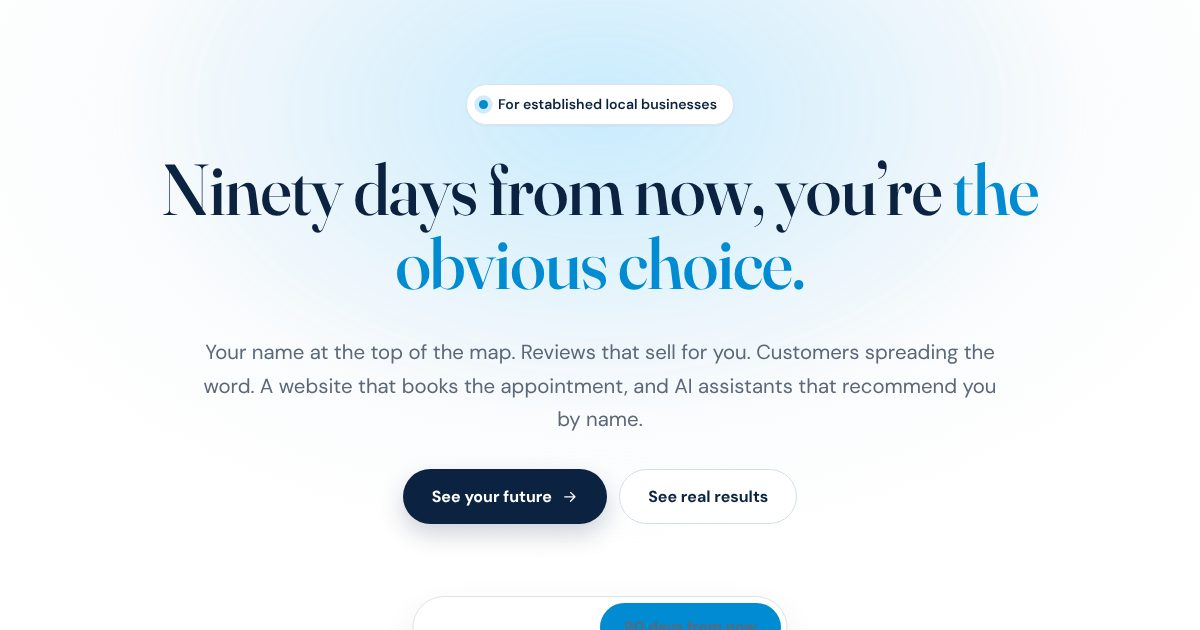
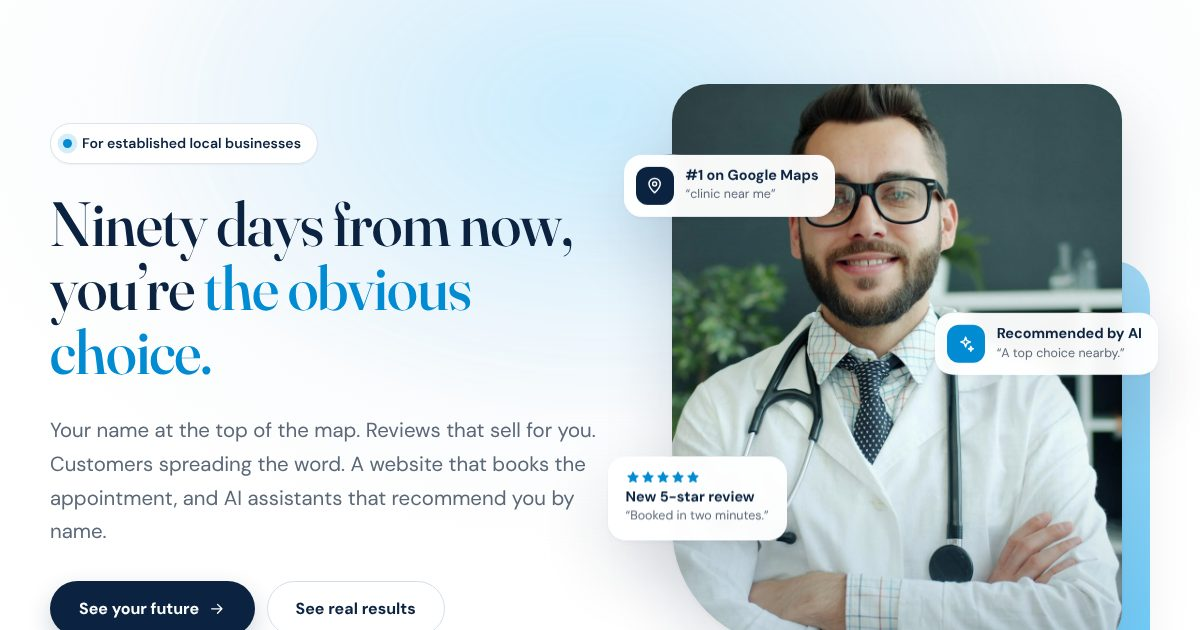
Add a photo to the home hero
Split hero with a portrait of a clinic owner (Unsplash License) and
floating result cards; the Today/90 days switch moves below. The image
can be replaced from the Customizer.

Claude-Session: https://claude.ai/code/session_018pQ9Jxz9pM4me8uzc4osee

diff --git a/wp-content/themes/progressive-marketing/style.css b/wp-content/themes/progressive-marketing/style.css
@@ -211,6 +211,40 @@ p { margin: 0 0 1em; }
 .hero-note .icon { color: var(--green); margin-left: .5em; }
 .hero-note .icon:first-child { margin-left: 0; }
 
+/* Hero with photo */
+.hero-photo-split { position: relative; display: grid; grid-template-columns: 1.08fr .92fr; gap: clamp(32px, 5vw, 72px); align-items: center; }
+.hero-photo-split h1 { font-size: clamp(2.6rem, 5.2vw, 4.4rem); max-width: 11em; }
+.hero-photo-split .lead { max-width: 34em; }
+.hero-photo { position: relative; margin: 0; padding: 0 28px 28px 0; isolation: isolate; }
+.hero-photo-frame { position: relative; border-radius: 36px 36px 36px 120px; overflow: hidden; aspect-ratio: 4 / 5; box-shadow: var(--shadow-lg); background: var(--sky); }
+.hero-photo-frame img { width: 100%; height: 100%; object-fit: cover; object-position: center top; }
+.hero-photo-frame::after { content: ""; position: absolute; inset: 0; background: linear-gradient(180deg, transparent 60%, rgba(11, 35, 65, .18)); }
+.hero-photo::before { content: ""; position: absolute; right: 0; bottom: 0; width: 70%; height: 70%; border-radius: 36px; background: linear-gradient(135deg, var(--sky-2), var(--sky-accent)); z-index: -1; }
+.hero-chip { position: absolute; display: flex; align-items: center; gap: 12px; padding: 12px 16px 12px 12px; border-radius: 18px; background: rgba(255, 255, 255, .96); box-shadow: var(--shadow-lg); backdrop-filter: blur(6px); animation: chipFloat 7s ease-in-out infinite; }
+.hero-chip strong { display: block; font-size: .9rem; color: var(--ink); line-height: 1.2; }
+.hero-chip small { display: block; font-size: .78rem; color: var(--muted); }
+.chip-icon { display: inline-flex; align-items: center; justify-content: center; width: 38px; height: 38px; border-radius: 12px; background: var(--navy); color: #fff; flex: none; }
+.chip-stars { display: inline-flex; gap: 1px; color: var(--blue); }
+.chip-stars .icon { width: 14px; height: 14px; fill: currentColor; }
+.chip-review { flex-direction: column; align-items: flex-start; gap: 4px; padding: 14px 18px; }
+.chip-rank { top: 12%; left: -48px; }
+.chip-review { bottom: 22%; left: -64px; animation-delay: -2.3s; }
+.chip-ai { top: 40%; right: -8px; animation-delay: -4.6s; }
+.chip-ai .chip-icon { background: var(--blue); }
+@keyframes chipFloat { 50% { transform: translateY(-8px); } }
+.hero-photo-split + .container .ft { margin-top: clamp(48px, 6vw, 80px); }
+@media (max-width: 960px) {
+	.hero-photo-split { grid-template-columns: 1fr; }
+	.hero-photo { max-width: 460px; margin: 8px auto 0; }
+	.chip-rank { left: -8px; top: -18px; }
+	.chip-review { left: -12px; }
+	.chip-ai { right: 0; }
+}
+@media (max-width: 480px) {
+	.hero-chip { transform: scale(.9); }
+	.chip-ai { display: none; }
+}
+
 /* Today ↔ Future switch */
 .ft { margin: clamp(48px, 6vw, 72px) auto 0; max-width: 1080px; text-align: left; }
 .ft-switch { position: relative; display: inline-grid; grid-template-columns: 1fr 1fr; margin: 0 auto 22px; padding: 6px; border-radius: 999px; background: #fff; border: 1px solid var(--line); box-shadow: var(--shadow); left: 50%; transform: translateX(-50%); }

diff --git a/wp-content/themes/progressive-marketing/front-page.php b/wp-content/themes/progressive-marketing/front-page.php
@@ -16,14 +16,35 @@ foreach ( pmc_industries() as $ind ) {
 
 <section class="hero">
 	<div class="hero-sun" aria-hidden="true"></div>
-	<div class="container hero-center">
-		<p class="pill" data-reveal><span class="pill-dot"></span> For established local businesses</p>
-		<h1 data-reveal>Ninety days from now, you’re <em>the obvious choice.</em></h1>
-		<p class="lead" data-reveal>Your name at the top of the map. Reviews that sell for you. Customers spreading the word. A website that books the appointment, and AI assistants that recommend you by name.</p>
-		<div class="hero-actions" data-reveal>
-			<a class="btn btn-primary btn-lg" href="<?php echo esc_url( pmc_trial_url() ); ?>">See your future <?php echo pmc_icon( 'arrow' ); // phpcs:ignore ?></a>
-			<a class="btn btn-ghost btn-lg" href="#proof">See real results</a>
+	<div class="container hero-photo-split">
+		<div class="hero-copy">
+			<p class="pill" data-reveal><span class="pill-dot"></span> For established local businesses</p>
+			<h1 data-reveal>Ninety days from now, you’re <em>the obvious choice.</em></h1>
+			<p class="lead" data-reveal>Your name at the top of the map. Reviews that sell for you. Customers spreading the word. A website that books the appointment, and AI assistants that recommend you by name.</p>
+			<div class="hero-actions" data-reveal>
+				<a class="btn btn-primary btn-lg" href="<?php echo esc_url( pmc_trial_url() ); ?>">See your future <?php echo pmc_icon( 'arrow' ); // phpcs:ignore ?></a>
+				<a class="btn btn-ghost btn-lg" href="#proof">See real results</a>
+			</div>
 		</div>
+		<figure class="hero-photo" data-reveal>
+			<div class="hero-photo-frame">
+				<img src="<?php echo esc_url( pmc_hero_image() ); ?>" width="960" height="1200" alt="<?php echo esc_attr( pmc_opt( 'hero_image_alt' ) ); ?>" fetchpriority="high">
+			</div>
+			<div class="hero-chip chip-rank" aria-hidden="true">
+				<span class="chip-icon"><?php echo pmc_icon( 'pin' ); // phpcs:ignore ?></span>
+				<span><strong>#1 on Google Maps</strong><small>“clinic near me”</small></span>
+			</div>
+			<div class="hero-chip chip-review" aria-hidden="true">
+				<span class="chip-stars"><?php echo str_repeat( pmc_icon( 'star' ), 5 ); // phpcs:ignore ?></span>
+				<span><strong>New 5-star review</strong><small>“Booked in two minutes.”</small></span>
+			</div>
+			<div class="hero-chip chip-ai" aria-hidden="true">
+				<span class="chip-icon"><?php echo pmc_icon( 'ai' ); // phpcs:ignore ?></span>
+				<span><strong>Recommended by AI</strong><small>“A top choice nearby.”</small></span>
+			</div>
+		</figure>
+	</div>
+	<div class="container">
 		<?php get_template_part( 'template-parts/future-toggle' ); ?>
 	</div>
 </section>

diff --git a/wp-content/themes/progressive-marketing/inc/customizer.php b/wp-content/themes/progressive-marketing/inc/customizer.php
@@ -21,6 +21,8 @@ function pmc_defaults() {
 		'vet_eval_url'   => '',
 		'auto_eval_url'  => '',
 		'topbar_text'    => '',
+		'hero_image'     => '',
+		'hero_image_alt' => 'Smiling clinic owner in a white coat, arms crossed, in his practice',
 		'notify_email'   => '',
 		'webhook_url'    => '',
 		'thankyou_text'  => 'Thanks! Your PMC Driveby trial request is in. We’ll check your Google Business Profile and get back to you within one business day.',
@@ -71,6 +73,7 @@ function pmc_customize_register( $wp_customize ) {
 		'vet_eval_url'  => array( 'Growth360 Veterinary: Executive Evaluation URL (blank = current HighLevel form)', 'url', 'esc_url_raw' ),
 		'auto_eval_url' => array( 'Growth360 Automotive: Executive Evaluation URL (blank = current HighLevel form)', 'url', 'esc_url_raw' ),
 		'topbar_text'   => array( 'Top bar announcement (blank hides it)', 'text', 'sanitize_text_field' ),
+		'hero_image_alt' => array( 'Home hero image description (alt text)', 'text', 'sanitize_text_field' ),
 		'notify_email'  => array( 'Backup form only: send submissions to (blank = public email)', 'email', 'sanitize_email' ),
 		'webhook_url'   => array( 'Backup form only: forward submissions to webhook URL (HighLevel inbound webhook)', 'url', 'esc_url_raw' ),
 		'thankyou_text' => array( 'Backup form only: message shown after sending', 'textarea', 'sanitize_textarea_field' ),
@@ -96,3 +99,32 @@ function pmc_customize_register( $wp_customize ) {
 	}
 }
 add_action( 'customize_register', 'pmc_customize_register' );
+
+/**
+ * Home hero image control (Media Library picker).
+ *
+ * @param WP_Customize_Manager $wp_customize Manager.
+ */
+function pmc_customize_hero_image( $wp_customize ) {
+	$wp_customize->add_setting( 'pmc_hero_image', array( 'default' => '', 'sanitize_callback' => 'esc_url_raw' ) );
+	$wp_customize->add_control(
+		new WP_Customize_Image_Control(
+			$wp_customize,
+			'pmc_hero_image',
+			array(
+				'label'       => 'Home hero image',
+				'description' => 'Portrait photo, about 960 × 1200. Leave empty to use the built-in image.',
+				'section'     => 'pmc_options',
+			)
+		)
+	);
+}
+add_action( 'customize_register', 'pmc_customize_hero_image', 20 );
+
+/**
+ * URL of the home hero image.
+ */
+function pmc_hero_image() {
+	$url = pmc_opt( 'hero_image' );
+	return $url ? $url : pmc_img( 'hero-owner.jpg' );
+}

diff --git a/README.md b/README.md
@@ -91,6 +91,11 @@ Delete the local `pmc_deploy` files once the secret is saved, or keep them somew
 
 Copy the site with SiteGround's migrator or a plugin like Duplicator/All-in-One WP Migration, or install WordPress on cPanel, activate the theme, and run **Deploy theme to cPanel (production)** with the `CPANEL_FTP_*` secrets (see the workflow file). Then update the Customizer settings and point DNS.
 
+## Image credits
+
+- Home hero photo (`assets/img/hero-owner.jpg`): Vitaly Gariev on Unsplash, https://unsplash.com/photos/XqMo4OlBnh0, free under the Unsplash License. Replace it any time in Appearance → Customize → Progressive Marketing → Home hero image.
+- Case-study map grids: PMC client reports.
+
 ## Local check
 
 ```bash
